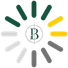
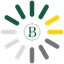
Remove hero decorative elements · rebuild preloader with CARGANDO.png
Banner cleanup:
- Remove hero-edge-line div (HTML) and its CSS block
- Remove hero-piece-count div "36 Piezas únicas" (HTML) and its CSS block

Preloader overhaul (no-duplicate rebuild):
- Strip all old preloader CSS classes (inner, logo-wrap, logo-img, label, brand, sep, sub)
- Replace with minimal: #preloader + .preloader-spinner + @keyframes preloader-spin
- Rewrite preloader.js: no GSAP, uses CARGANDO.png spinning at 1.2s linear
  Shows for minimum 1.4s, fades out 0.6s on window load
- Keep is-preloading safety guard in page-transitions.js (bfcache edge case)

https://claude.ai/code/session_01SKaQd8GUHYZSZqcibUr8yV

diff --git a/css/style.css b/css/style.css
@@ -4308,73 +4308,27 @@ body::after {
 /* ─── Preloader ──────────────────────────────────────────────── */
 #preloader {
     position: fixed;
-    top: 0; left: 0; right: 0; bottom: 0;
+    inset: 0;
     background: var(--black);
     z-index: 10000;
     display: flex;
     align-items: center;
     justify-content: center;
+    transition: opacity 0.6s ease;
 }
 
 body.is-preloading { overflow: hidden; }
 
-.preloader-inner {
-    display: flex;
-    flex-direction: column;
-    align-items: center;
-    gap: 28px;
+.preloader-spinner {
+    width: 96px;
+    height: 96px;
+    animation: preloader-spin 1.2s linear infinite;
+    pointer-events: none;
     user-select: none;
 }
 
-.preloader-logo-wrap {
-    width: 116px;
-    height: 116px;
-    border-radius: 50%;
-    overflow: hidden;
-    background: #fff;
-    box-shadow:
-        0 0 0 1px rgba(201,169,110,0.4),
-        0 0 40px rgba(201,169,110,0.1),
-        0 8px 32px rgba(0,0,0,0.5);
-}
-
-.preloader-logo-img {
-    width: 100%;
-    height: 100%;
-    object-fit: contain;
-    padding: 6px;
-    display: block;
-    pointer-events: none;
-}
-
-.preloader-label {
-    display: flex;
-    flex-direction: column;
-    align-items: center;
-    gap: 10px;
-}
-
-.preloader-brand {
-    font-family: var(--font-body);
-    font-size: 10px;
-    font-weight: 500;
-    letter-spacing: 10px;
-    color: var(--ivory);
-}
-
-.preloader-sep {
-    display: block;
-    height: 1px;
-    background: var(--gold);
-    width: 48px;
-}
-
-.preloader-sub {
-    font-family: var(--font-body);
-    font-size: 8px;
-    font-weight: 400;
-    letter-spacing: 7px;
-    color: var(--gold);
+@keyframes preloader-spin {
+    to { transform: rotate(360deg); }
 }
 
 /* ─── Hero Section — Phase 1 Enhancements ────────────────────── */
@@ -6678,39 +6632,6 @@ a.piece-image-wrapper {
     .hero-content::after { display: none; }
 }
 
-/* Número de piezas en hero — posicionado en la esquina inferior derecha */
-.hero-piece-count {
-    position: absolute;
-    bottom: var(--space-xl);
-    right: var(--space-lg);
-    text-align: right;
-    pointer-events: none;
-}
-
-.hero-piece-count-number {
-    display: block;
-    font-family: var(--font-display);
-    font-size: clamp(3rem, 6vw, 5rem);
-    font-weight: 200;
-    color: rgba(201,169,110,0.12);
-    line-height: 1;
-    letter-spacing: -2px;
-}
-
-.hero-piece-count-label {
-    display: block;
-    font-family: var(--font-body);
-    font-size: 9px;
-    font-weight: 500;
-    letter-spacing: 3px;
-    text-transform: uppercase;
-    color: rgba(201,169,110,0.3);
-    margin-top: 4px;
-}
-
-@media (max-width: 768px) {
-    .hero-piece-count { display: none; }
-}
 
 /* ─── Stat counter — asegurar visibilidad mínima pre-animación */
 .stat-number {
@@ -7160,25 +7081,7 @@ a.piece-image-wrapper {
     display: block;
 }
 
-/* Línea dorada lateral derecha (decorativa) */
-.hero-edge-line {
-    position: absolute;
-    top: 15%;
-    right: clamp(32px, 6vw, 80px);
-    width: 1px;
-    height: 70%;
-    background: linear-gradient(to bottom,
-        transparent 0%,
-        rgba(201,169,110,0.35) 20%,
-        rgba(201,169,110,0.5) 50%,
-        rgba(201,169,110,0.35) 80%,
-        transparent 100%);
-    z-index: 2;
-    pointer-events: none;
-}
-
 @media (max-width: 768px) {
-    .hero-edge-line { display: none; }
     .hero-bg-img {
         /* En móvil la franja visible es muy estrecha → alinear sobre la modelo */
         object-position: 62% center !important;

diff --git a/js/preloader.js b/js/preloader.js
@@ -1,9 +1,8 @@
 /**
  * Bersaglio Jewelry — Preloader
- * Muestra una sola vez por sesión. Animado con GSAP (sin conflictos de CSS).
+ * Muestra CARGANDO.png girando hasta que la página cargue.
+ * Sin dependencias externas.
  */
-
-import { gsap } from './gsap-core.js';
 
 export function initPreloader() {
     if (sessionStorage.getItem('bj-loaded')) return;
@@ -12,52 +11,27 @@ export function initPreloader() {
     const el = document.createElement('div');
     el.id = 'preloader';
     el.setAttribute('aria-hidden', 'true');
-    el.innerHTML = `
-        <div class="preloader-inner">
-            <div class="preloader-logo-wrap">
-                <img src="/img/logo-bj2.png" alt="" class="preloader-logo-img" draggable="false">
-            </div>
-            <div class="preloader-label">
-                <span class="preloader-brand">BERSAGLIO</span>
-                <span class="preloader-sep"></span>
-                <span class="preloader-sub">JEWELRY</span>
-            </div>
-        </div>
-    `;
-    document.body.appendChild(el);
+    el.innerHTML = `<img src="/Pic/CARGANDO.png" class="preloader-spinner" alt="" draggable="false">`;
+    document.body.prepend(el);
     document.body.classList.add('is-preloading');
 
-    const wrap  = el.querySelector('.preloader-logo-wrap');
-    const brand = el.querySelector('.preloader-brand');
-    const sep   = el.querySelector('.preloader-sep');
-    const sub   = el.querySelector('.preloader-sub');
+    const minMs = 1400;
+    const start = Date.now();
 
-    // Estados iniciales — GSAP los controla, no CSS
-    gsap.set(wrap,  { opacity: 0, scale: 0.85 });
-    gsap.set(brand, { opacity: 0, y: 8 });
-    gsap.set(sep,   { opacity: 0, scaleX: 0 });
-    gsap.set(sub,   { opacity: 0, y: 6 });
+    function hide() {
+        const wait = Math.max(0, minMs - (Date.now() - start));
+        setTimeout(() => {
+            el.style.opacity = '0';
+            setTimeout(() => {
+                el.remove();
+                document.body.classList.remove('is-preloading');
+            }, 620);
+        }, wait);
+    }
 
-    const tl = gsap.timeline({
-        delay: 0.1,
-        onComplete() {
-            gsap.to(el, {
-                opacity: 0,
-                duration: 0.75,
-                ease: 'power2.inOut',
-                delay: 0.2,
-                onComplete() {
-                    el.remove();
-                    document.body.classList.remove('is-preloading');
-                },
-            });
-        },
-    });
-
-    tl.to(wrap,  { opacity: 1, scale: 1, duration: 0.85, ease: 'expo.out' },       0.05)
-      .to(brand, { opacity: 1, y: 0,     duration: 0.65, ease: 'expo.out' },        0.65)
-      .to(sep,   { opacity: 1, scaleX: 1, duration: 0.5, ease: 'power2.out',
-                   transformOrigin: 'center center' },                               1.1)
-      .to(sub,   { opacity: 1, y: 0,     duration: 0.5,  ease: 'expo.out' },        1.35)
-      .to({},    {},                                                                  2.4); // hold
+    if (document.readyState === 'complete') {
+        hide();
+    } else {
+        window.addEventListener('load', hide, { once: true });
+    }
 }

diff --git a/index.html b/index.html
@@ -113,9 +113,6 @@
             <!-- Overlay de gradiente para legibilidad de texto -->
             <div class="hero-overlay" aria-hidden="true"></div>
 
-            <!-- Línea dorada decorativa lateral (escritorio) -->
-            <div class="hero-edge-line" aria-hidden="true"></div>
-
             <!-- Contenido principal — alineado izquierda -->
             <div class="hero-content container">
 
@@ -154,12 +151,6 @@
                     <span class="hero-badge">Diseño exclusivo</span>
                 </div>
 
-            </div>
-
-            <!-- Contador decorativo de piezas -->
-            <div class="hero-piece-count" aria-hidden="true">
-                <span class="hero-piece-count-number">36</span>
-                <span class="hero-piece-count-label">Piezas únicas</span>
             </div>
 
             <!-- Scroll cue -->

diff --git a/js/page-transitions.js b/js/page-transitions.js
@@ -83,7 +83,7 @@ export function initPageTransitions() {
             // Página restaurada desde bfcache — ocultar overlay inmediatamente
             gsap.set(overlay, { display: 'none' });
             sessionStorage.removeItem('bj-pt-nav');
-            document.body.classList.remove('is-preloading');
+            document.body.classList.remove('is-preloading'); // seguridad bfcache
         }
     });
 
